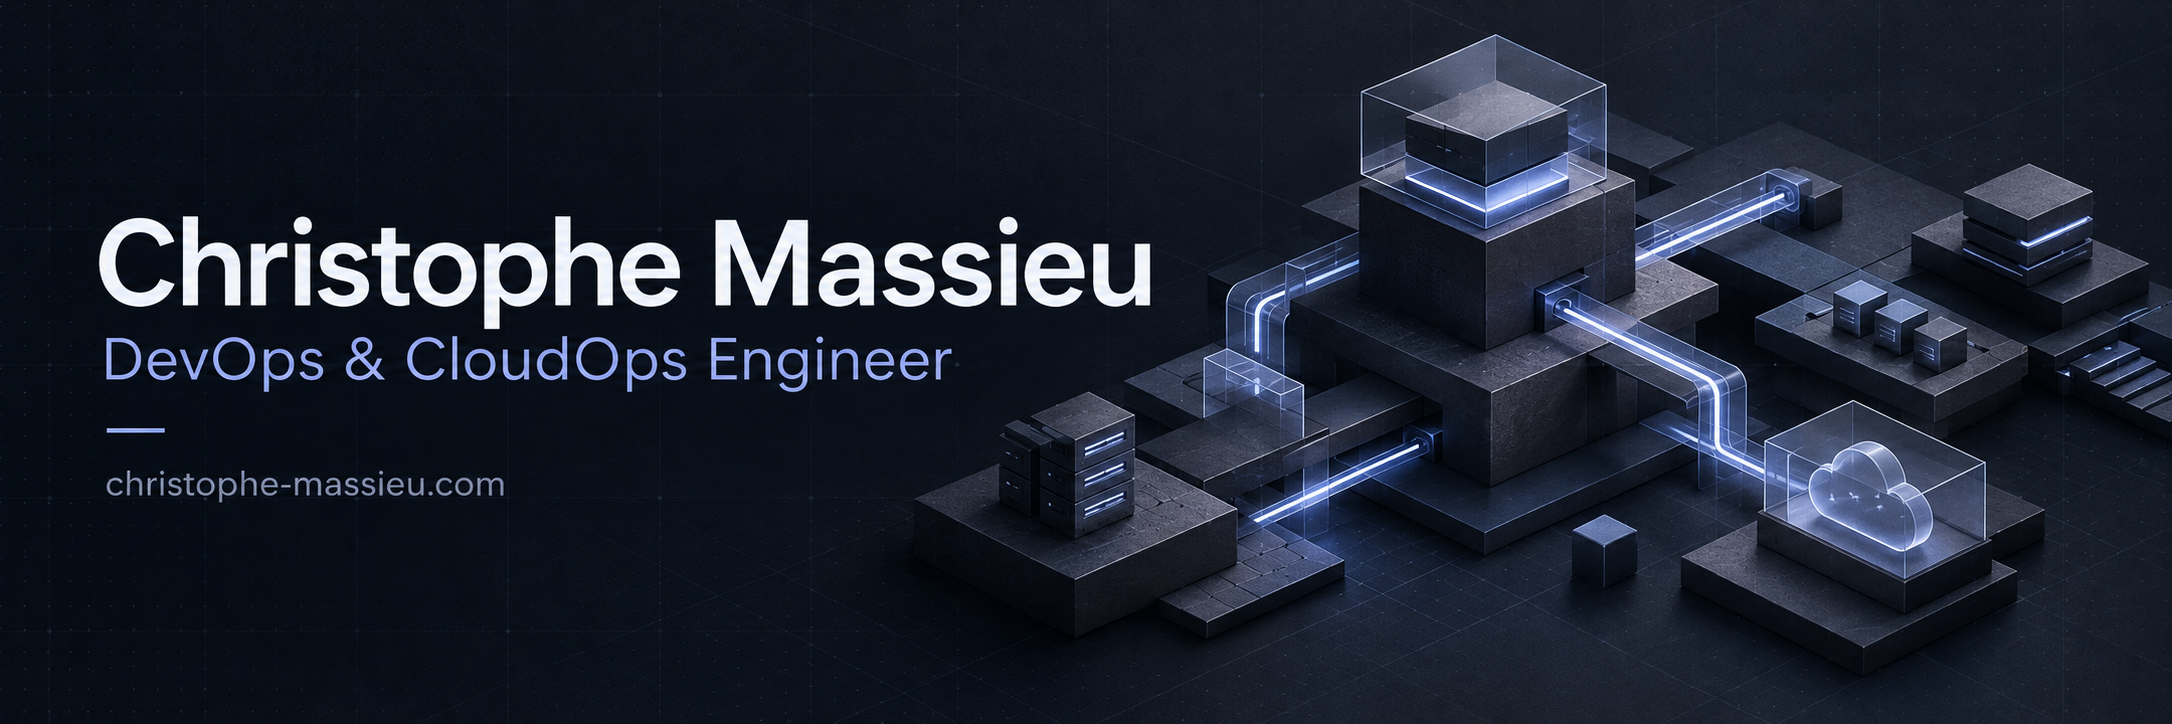
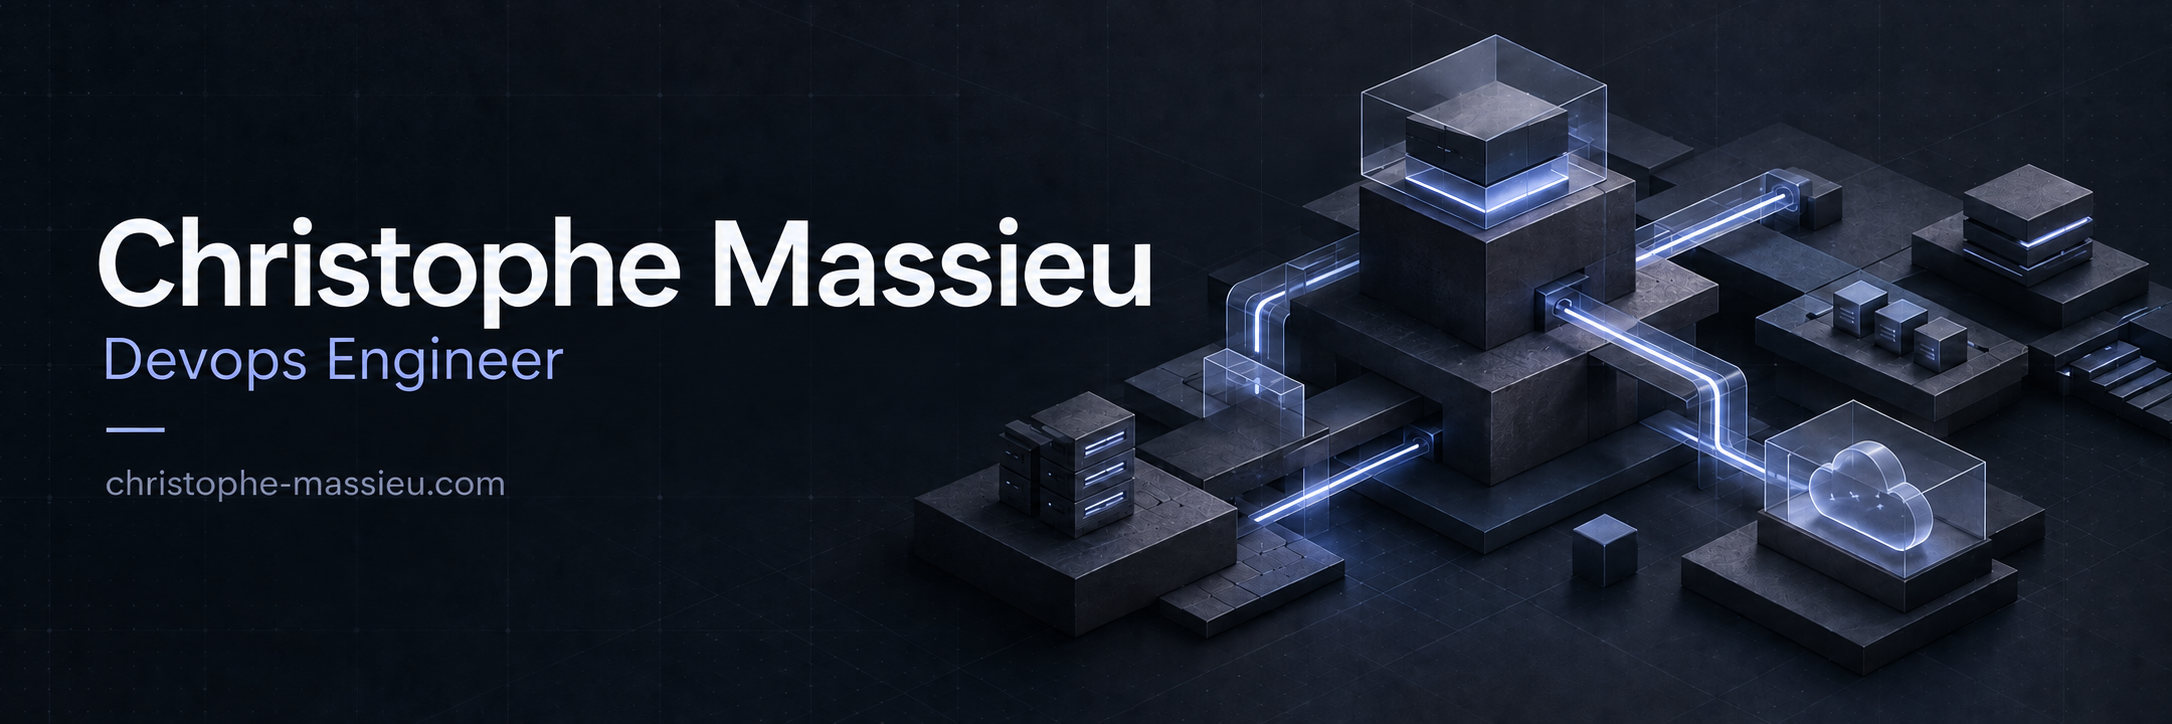
Simplifier l’intitulé en Devops Engineer

diff --git a/README.md b/README.md
@@ -1,8 +1,8 @@
-[![Christophe Massieu - DevOps & CloudOps Engineer](banner-devops.png)](https://christophe-massieu.com/)
+[![Christophe Massieu - Devops Engineer](banner-devops.png)](https://christophe-massieu.com/)
 
 # Christophe Massieu
 
-DevOps & CloudOps Engineer à Bordeaux.
+Devops Engineer à Bordeaux.
 
 Je travaille sur des infrastructures Linux, l'automatisation des déploiements
 et la supervision. Ici, je partage mes projets personnels et mes configurations.
